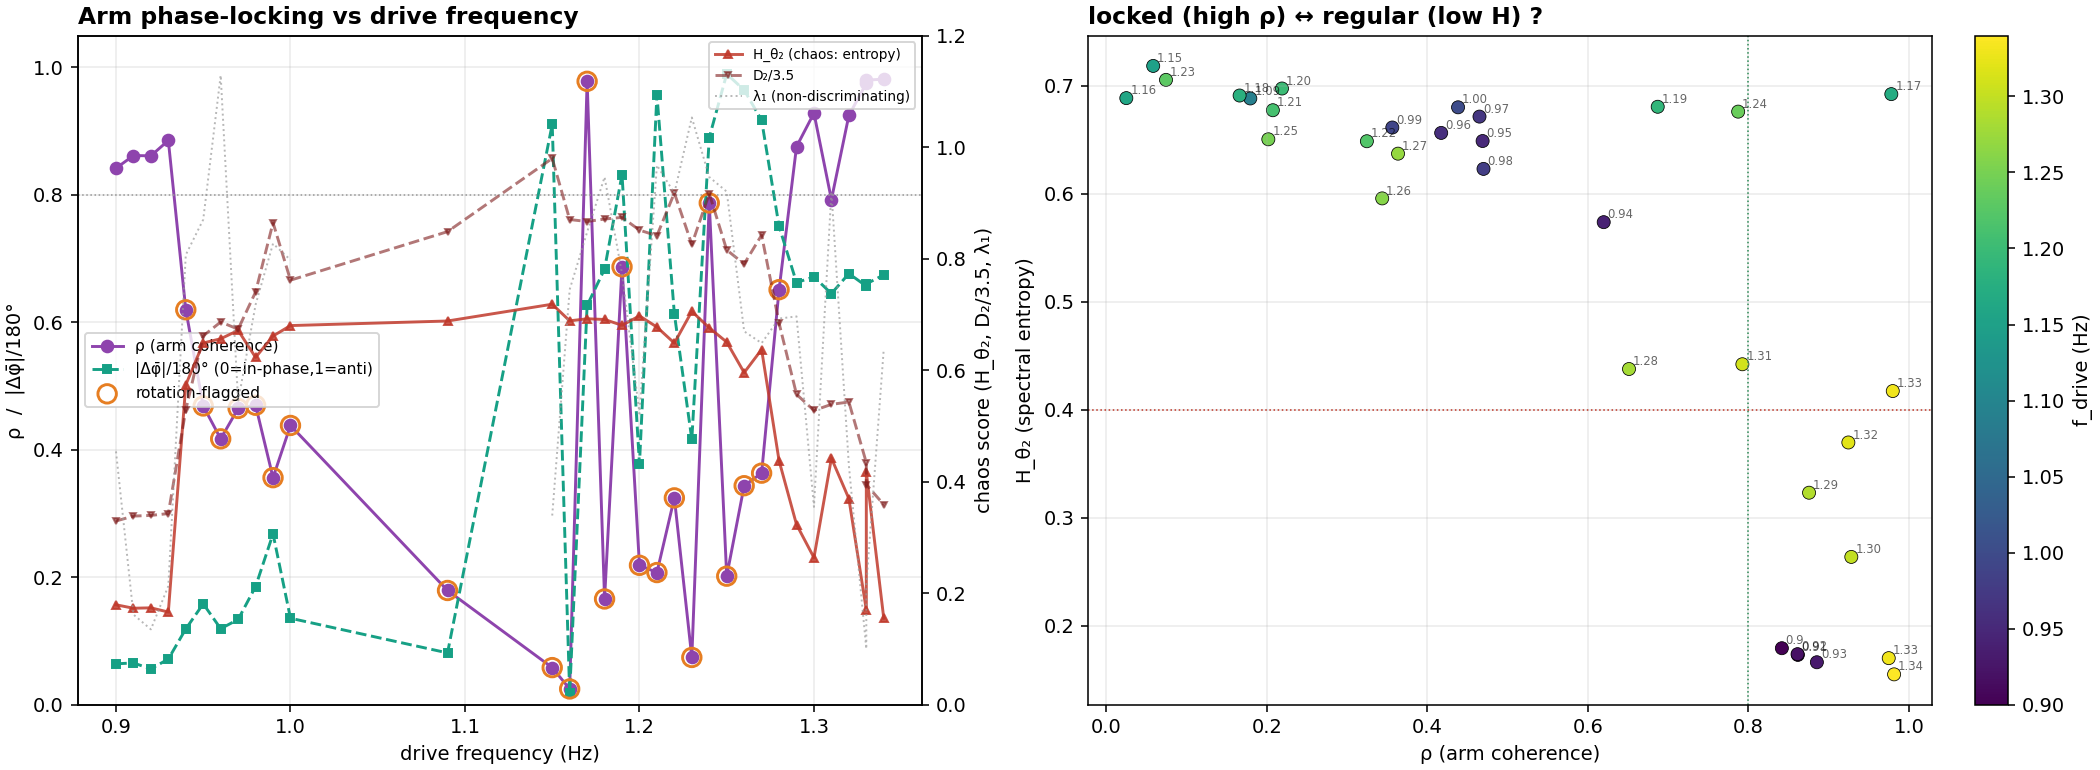
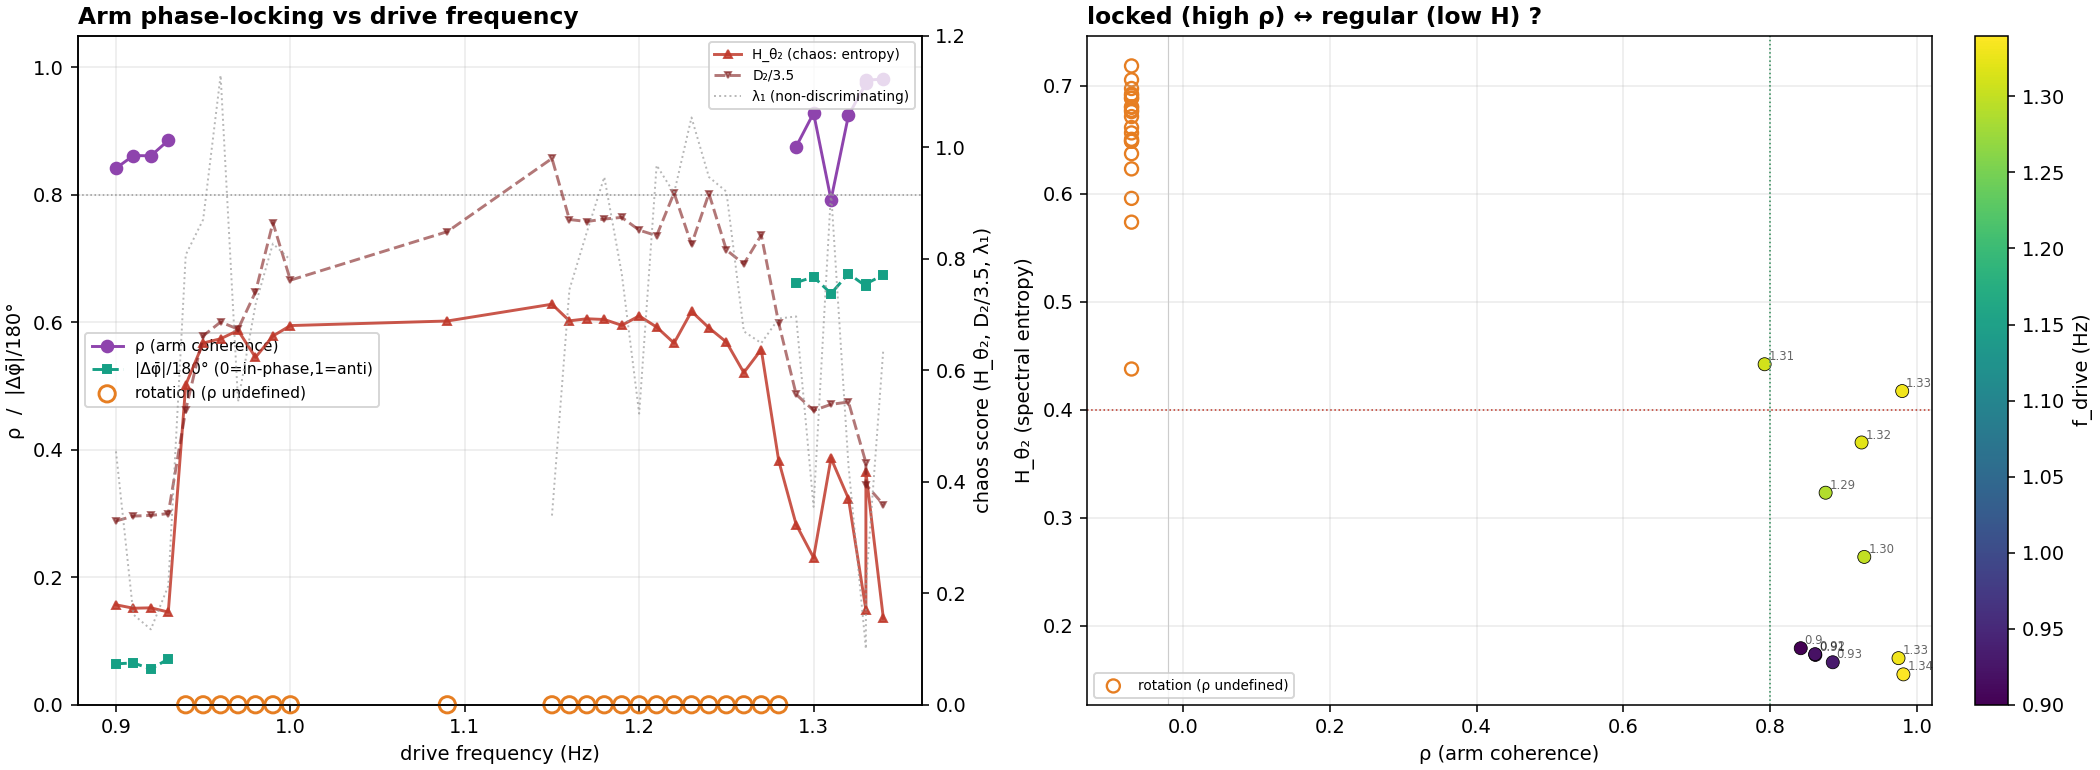
fix: report rho undefined for rotation-dominated phase-locking clips
Phase (and thus rho/mean_dphi/df) is only defined under libration — the
(theta,omega) orbit must encircle the origin. For rotation-dominated clips the
old code computed rho over the few leftover libration windows, yielding a
spurious high value (3.2V_1.17Hz: rho=0.98 from 2 of 107 windows, while the
relative phase actually drifts ~42 turns). Now: when rotation_fraction >
PLOCK_ROT_FRAC, rho/mean_dphi/df/psi are null in the JSON and the clip is shown
on a dedicated "rotation (rho undefined)" strip in both aggregate panels rather
than at a fabricated rho. Verdict was already "rotation"; this stops the rho
number from lying. Keeps the original informative figure layout.

diff --git a/scripts/analysis/phase_locking.py b/scripts/analysis/phase_locking.py
@@ -206,23 +206,29 @@ def compute(stem, transient_s=5.0):
     lib = ~win_series["rotation"]
     rot_frac = float(np.mean(win_series["rotation"]))
 
-    # Global scalars over LIBRATION windows' span (rotation degenerates phase).
-    if lib.any():
-        # restrict the per-sample dphi to libration-window coverage via time
-        lo, hi = win_series["t"][lib].min(), win_series["t"][lib].max()
-        m = (t >= lo) & (t <= hi)
-        dphi_lib = dphi[m] if m.sum() > 10 else dphi
-        t_lib = t[m] if m.sum() > 10 else t
+    # Phase is only defined for LIBRATION. If the clip is rotation-dominated the
+    # (θ,ω) orbit never encircles the origin, so φ — and therefore ρ, mean_dφ,
+    # df — are UNDEFINED. Report them as null (not a coincidental value from the
+    # few leftover libration windows) so the chaos signal isn't silently faked.
+    if rot_frac > TH.PLOCK_ROT_FRAC:
+        rho = mean_dphi = df = psi_df = None
+        verdict = "rotation"
+        sub = f"{rot_frac*100:.0f}% of windows rotate (over-the-top) — ρ undefined"
     else:
-        dphi_lib, t_lib = dphi, t
-    z = np.mean(np.exp(1j * dphi_lib))
-    rho = float(np.abs(z))
-    mean_dphi = float(wrap180(np.degrees(np.angle(z))))
-    df = float(np.polyfit(t_lib - t_lib[0], dphi_lib, 1)[0] / (2.0 * np.pi))
-    # drive cross-check: is arm-2 phase-locked to the drive? (boundedness of psi)
-    psi_df = float(np.polyfit(t - t[0], psi, 1)[0] / (2.0 * np.pi))
-
-    verdict, sub = classify(rho, mean_dphi, df, f_drive, rot_frac)
+        if lib.any():
+            lo, hi = win_series["t"][lib].min(), win_series["t"][lib].max()
+            m = (t >= lo) & (t <= hi)
+            dphi_lib = dphi[m] if m.sum() > 10 else dphi
+            t_lib = t[m] if m.sum() > 10 else t
+        else:
+            dphi_lib, t_lib = dphi, t
+        z = np.mean(np.exp(1j * dphi_lib))
+        rho = float(np.abs(z))
+        mean_dphi = float(wrap180(np.degrees(np.angle(z))))
+        df = float(np.polyfit(t_lib - t_lib[0], dphi_lib, 1)[0] / (2.0 * np.pi))
+        # drive cross-check: is arm-2 phase-locked to the drive? (psi boundedness)
+        psi_df = float(np.polyfit(t - t[0], psi, 1)[0] / (2.0 * np.pi))
+        verdict, sub = classify(rho, mean_dphi, df, f_drive, rot_frac)
     return {
         "stem": stem, "f_drive_hz": f_drive, "transient_s": transient_s,
         "rho": rho, "mean_dphi_deg": mean_dphi, "df_hz": df,
@@ -251,9 +257,13 @@ def make_figure(res, out_path):
     ax = fig.add_subplot(gs[0, :])
     ax.plot(t0, np.degrees(dphi), lw=0.7, color="#333333")
     ax.set_ylabel("Δφ = φ₁−φ₂ (deg)")
-    ax.set_title(f"{res['stem']}   f_drive={res['f_drive_hz']:g} Hz   "
-                 f"ρ={res['rho']:.2f}   Δφ̄={res['mean_dphi_deg']:.0f}°   "
-                 f"df={res['df_hz']:+.3f} Hz   →  {res['verdict'].upper()} ({res['sub']})",
+    if res["rho"] is None:                          # rotation-dominated: ρ undefined
+        scal = "ρ = — (rotation: phase undefined)"
+    else:
+        scal = (f"ρ={res['rho']:.2f}   Δφ̄={res['mean_dphi_deg']:.0f}°   "
+                f"df={res['df_hz']:+.3f} Hz")
+    ax.set_title(f"{res['stem']}   f_drive={res['f_drive_hz']:g} Hz   {scal}   "
+                 f"→  {res['verdict'].upper()} ({res['sub']})",
                  loc="left", fontsize=11, fontweight="bold")
     ax.grid(alpha=0.25)
 
@@ -352,12 +362,15 @@ def run_sweep(voltage, transient_s):
 
     fig, (ax1, ax2) = plt.subplots(1, 2, figsize=(15, 5.5), constrained_layout=True)
     # left: rho(f) + mean_dphi(f), chaos reference on twin axis
+    rotmask = rotf > TH.PLOCK_ROT_FRAC
     ax1.plot(f, rho, "o-", color="#8e44ad", label="ρ (arm coherence)")
     ax1.plot(f, np.abs(mean) / 180.0, "s--", color="#16a085", ms=4,
              label="|Δφ̄|/180° (0=in-phase,1=anti)")
-    ax1.scatter(f[rotf > TH.PLOCK_ROT_FRAC], rho[rotf > TH.PLOCK_ROT_FRAC],
-                s=90, facecolors="none", edgecolors="#e67e22", linewidths=1.5,
-                label="rotation-flagged", zorder=5)
+    # ρ is undefined for rotation-dominated clips (NaN, so the ρ line breaks);
+    # mark them on a strip at the bottom rather than at a fake ρ value.
+    ax1.scatter(f[rotmask], np.zeros(int(rotmask.sum())), marker="o", s=70,
+                facecolors="none", edgecolors="#e67e22", linewidths=1.5,
+                label="rotation (ρ undefined)", zorder=5, clip_on=False)
     ax1.axhline(TH.PLOCK_RHO_LOCK, color="0.6", ls=":", lw=0.8)
     ax1.set_xlabel("drive frequency (Hz)"); ax1.set_ylabel("ρ  /  |Δφ̄|/180°")
     ax1.set_ylim(0, 1.05); ax1.grid(alpha=0.25); ax1.legend(loc="center left", fontsize=8)
@@ -369,12 +382,21 @@ def run_sweep(voltage, transient_s):
     axb.set_ylim(0, 1.2); axb.legend(loc="upper right", fontsize=7)
     ax1.set_title("Arm phase-locking vs drive frequency", loc="left", fontweight="bold")
 
-    # right: rho vs chaos score (primary = H_θ₂); test locked↔regular
+    # right: rho vs chaos score (primary = H_θ₂); test locked↔regular. Clips with
+    # defined ρ plot normally; rotation clips (ρ undefined) go on a left strip so
+    # their H is still visible without faking a ρ value.
     sc = ax2.scatter(rho, H, c=f, cmap="viridis", s=45, edgecolors="k", linewidths=0.4)
     for x, y, st in zip(rho, H, [r[9] for r in rows]):
         if np.isfinite(x) and np.isfinite(y):
             ax2.annotate(st.split("_")[1].replace("Hz", ""), (x, y),
                          fontsize=6, alpha=0.6, xytext=(2, 2), textcoords="offset points")
+    if rotmask.any():
+        ax2.scatter(np.full(int(rotmask.sum()), -0.07), H[rotmask], marker="o", s=45,
+                    facecolors="none", edgecolors="#e67e22", linewidths=1.2,
+                    label="rotation (ρ undefined)")
+        ax2.axvline(-0.02, color="0.8", lw=0.6)
+        ax2.set_xlim(-0.13, 1.02)
+        ax2.legend(loc="lower left", fontsize=7)
     ax2.axvline(TH.PLOCK_RHO_LOCK, color="#2e8b57", ls=":", lw=0.8)
     ax2.axhline(0.4, color="#c0392b", ls=":", lw=0.8)
     ax2.set_xlabel("ρ (arm coherence)"); ax2.set_ylabel("H_θ₂ (spectral entropy)")
@@ -389,7 +411,10 @@ def run_sweep(voltage, transient_s):
     console.print(f"\n[bold]phase-locking sweep — {voltage} V ({len(rows)} clips)[/]")
     console.print(f"{'f':>6} {'rho':>5} {'dphi':>6} {'df':>7} {'rot%':>5} {'H':>5}  verdict")
     for r in rows:
-        console.print(f"{r[0]:>6.2f} {r[1]:>5.2f} {r[2]:>6.0f} {r[3]:>+7.3f} "
+        rho_s = f"{r[1]:>5.2f}" if r[1] is not None else "    —"
+        dphi_s = f"{r[2]:>6.0f}" if r[2] is not None else "     —"
+        df_s = f"{r[3]:>+7.3f}" if r[3] is not None else "      —"
+        console.print(f"{r[0]:>6.2f} {rho_s} {dphi_s} {df_s} "
                       f"{r[4]*100:>4.0f}% {(r[6] if r[6]==r[6] else 0):>5.2f}  {r[5]}")
     console.print(f"[dim]→ {out}[/]")
     return out
@@ -453,9 +478,13 @@ def main():
     r = res
     console.print(f"[cyan]{r['stem']}[/]  f_drive={r['f_drive_hz']:g} Hz  "
                   f"[bold]{r['verdict'].upper()}[/] ({r['sub']})")
-    console.print(f"  ρ={r['rho']:.3f}  Δφ̄={r['mean_dphi_deg']:.1f}°  "
-                  f"df={r['df_hz']:+.4f} Hz  rotation={r['rotation_fraction']*100:.0f}%  "
-                  f"[dim](drive cross-check df={r['psi_drive_df_hz']:+.4f} Hz)[/]")
+    if r["rho"] is None:
+        console.print(f"  ρ = — (rotation: phase undefined)  "
+                      f"rotation={r['rotation_fraction']*100:.0f}%")
+    else:
+        console.print(f"  ρ={r['rho']:.3f}  Δφ̄={r['mean_dphi_deg']:.1f}°  "
+                      f"df={r['df_hz']:+.4f} Hz  rotation={r['rotation_fraction']*100:.0f}%  "
+                      f"[dim](drive cross-check df={r['psi_drive_df_hz']:+.4f} Hz)[/]")
     console.print(f"  [dim]→ {out_json}[/]")
 
     if not args.no_plot:
